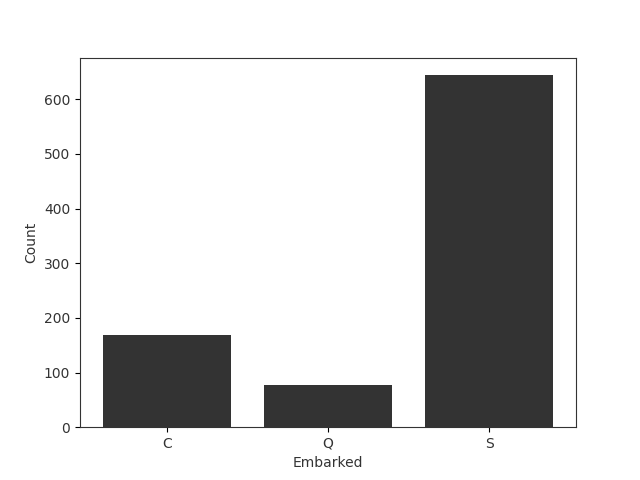
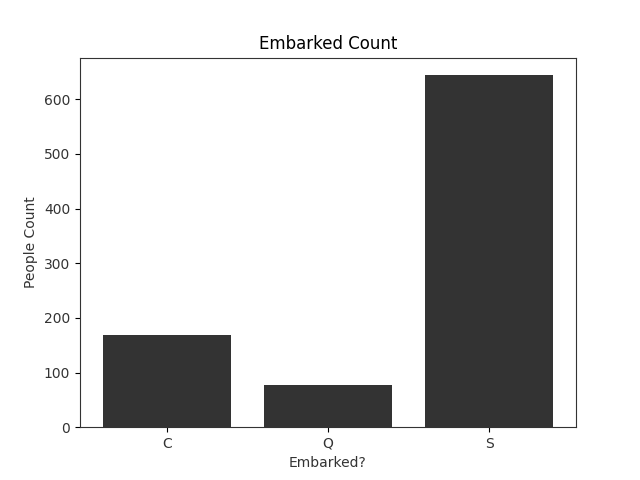
Add abstraction to axes

Changed region(s): [[0.4062, 0.0625, 0.625, 0.125], [0.0312, 0.4062, 0.0625, 0.5938], [0.4375, 0.9375, 0.5625, 1.0]]

diff --git a/src/prplot/chart.py b/src/prplot/chart.py
@@ -1,22 +1,62 @@
-import pandas as pd;
+from typing import List
+import pandas as pd
+import matplotlib.pyplot as plt
+
+from prplot.plot import Plot
+from prplot.style.chart_style import ChartStyle;
 
 class Chart:
-    def __init__(self, data: pd.DataFrame, binds, axes, style, plots):
+    def __init__(self, data: pd.DataFrame, binds, axes, label, style: ChartStyle, plots):
         self.data = data
         self.binds = binds
         self.axes = axes
         self.style = style
-        self.plots = plots
+        self.plots: List[Plot] = plots
+        self.label = label
         for plot in self.plots:
             plot.chart = self
+        self.figure = None
+        self.ax = None
+    
+    def _draw(self):
+        self._draw_axes()
+        self._draw_plots()
+
+    def _draw_axes(self):
+        self.figure, self.ax = plt.subplots()
+        ax = self.ax
+
+        if 'title' in self.label:
+            ax.set_title(self.label['title'])
+
+        if 'x' in self.label:
+            ax.set_xlabel(self.label['x'])
+        else:
+            ax.set_xlabel(self.binds['x'])
+
+        if 'y' in self.label:
+            ax.set_ylabel(self.label['y'])
+        else:
+            ax.set_ylabel(self.binds['y'])
+        
+        self.style.apply_to_axes(ax)
+    
+    def _draw_plots(self):
+        for plot in self.plots:
+            plot.fig = self.figure
+            plot.ax = self.ax
+            plot.draw()
 
     def save(self, filename):
-        for plot in self.plots:
-            plot.save(filename)
+        if not self.ax:
+            self._draw()
+        self.figure.savefig(filename)
 
     def show(self):
-        for plot in self.plots:
-            plot.show()
+        if not self.ax:
+            self._draw()
+        plt.show()
+
 
 class ChartBuilder:
     def __init__(self):
@@ -25,6 +65,7 @@ class ChartBuilder:
         self._axes = None
         self._plots = []
         self._style = None
+        self._label = {}
         
     def data(self, data: pd.DataFrame):
         self._data = data
@@ -34,6 +75,10 @@ class ChartBuilder:
         self._binds.update(kwargs)
         return self
     
+    def label(self, **kwargs):
+        self._label.update(kwargs)
+        return self
+
     def plot(self, plot):
         self._plots.append(plot)
         return self
@@ -43,7 +88,7 @@ class ChartBuilder:
         return self
     
     def build(self):
-        return Chart(self._data, self._binds, self._axes, self._style, self._plots)
+        return Chart(self._data, self._binds, self._axes, self._label, self._style, self._plots)
 
     def save(self, filename):
         chart = self.build()

diff --git a/src/prplot/plot/__init__.py b/src/prplot/plot/__init__.py
@@ -22,57 +22,31 @@ class Plot:
     def draw(self):
         pass
 
-    def show(self):
-        if not self.ax:
-            self.draw()
-        plt.show()
-        return self
-
-    def save(self, filename):
-        if not self.ax:
-            self.draw()
-        self.fig.savefig(filename)
-        return self
-
 
 class Bar(Plot):
     def draw(self):
-        self.fig, self.ax = plt.subplots()
-        ax = self.ax
+        x_bind = self.chart.binds['x']
+        data = self.chart.data.groupby([x_bind]).size().reset_index(name='count')
 
-        category_name = self.chart.binds['category']
-        categories = self.chart.data.groupby([category_name]).size().reset_index(name='count')
+        x = data[x_bind]
+        y = data['count']
 
-        cat = categories[category_name]
-        counts = categories['count']
-
-        ax.set_xlabel(category_name)
-        ax.set_ylabel('Count')
-
-        self.style.apply_to_axes(ax)
-
-        ax.bar(
-            cat, 
-            counts, 
+        self.ax.bar(
+            x, 
+            y, 
             color=self.style.get_color()
         )
 
 
 class Scatter(Plot):
     def draw(self):
-        self.fig, self.ax = plt.subplots()
         ax = self.ax
 
-        x_name = self.chart.binds['x'] 
-        y_name = self.chart.binds['y']
+        x_bind = self.chart.binds['x'] 
+        y_bind = self.chart.binds['y']
 
-        x = self.chart.data[x_name]
-        y = self.chart.data[y_name]
-
-        ax.set_xlabel(x_name)
-        ax.set_ylabel(y_name)
-
-        self.style.apply_to_axes(ax)
+        x = self.chart.data[x_bind]
+        y = self.chart.data[y_bind]
 
         ax.scatter(
             x, 
@@ -83,22 +57,17 @@ class Scatter(Plot):
 
 class BoxPlot(Plot):
     def draw(self):
-        self.fig, self.ax = plt.subplots()
         ax = self.ax
 
         x_name = self.chart.binds['x']
         y_name = self.chart.binds['y']
 
-        categories = self.data.groupby([x_name])[y_name].apply(list)
-        tick_labels = list(categories.index)
-
-        ax.set_xlabel(x_name)
-        ax.set_ylabel(y_name)
-        
-        self.style.apply_to_axes(ax)
+        y = self.data.groupby([x_name])[y_name].apply(list)
+        x = list(y.index)
 
         ax.boxplot(
-            categories,
-            tick_labels = tick_labels,
+            y,
+            tick_labels = x,
             # color = self.style.get_color()
         )
+

diff --git a/tests/test_prplot.py b/tests/test_prplot.py
@@ -9,9 +9,14 @@ def test_chart_bar():
     (prp.chart()
         .data(data)
         .bind(
-            category='Embarked',
+            x='Embarked',
         )
         .style(style)
+        .label(
+            title='Embarked Count',
+            x='Embarked?',
+            y='People Count'
+        )
         .plot(prp.plot.Bar())
         .save('bar.png')
         .show()
